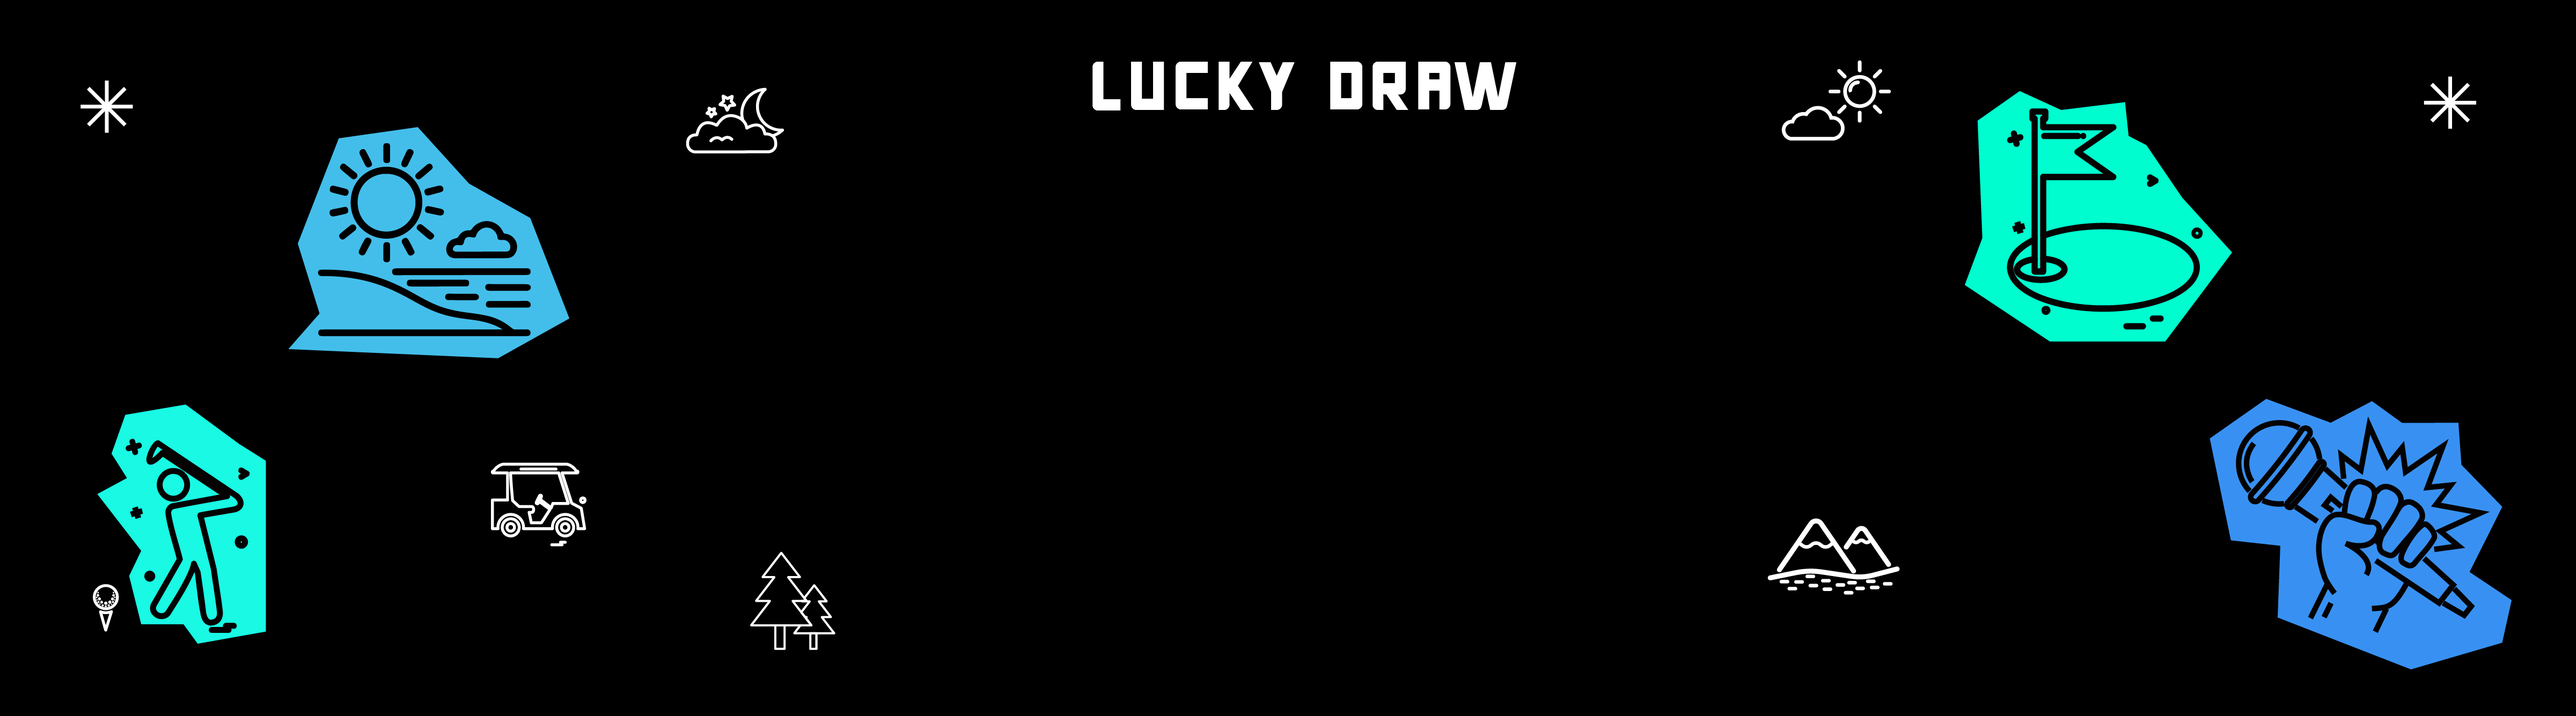
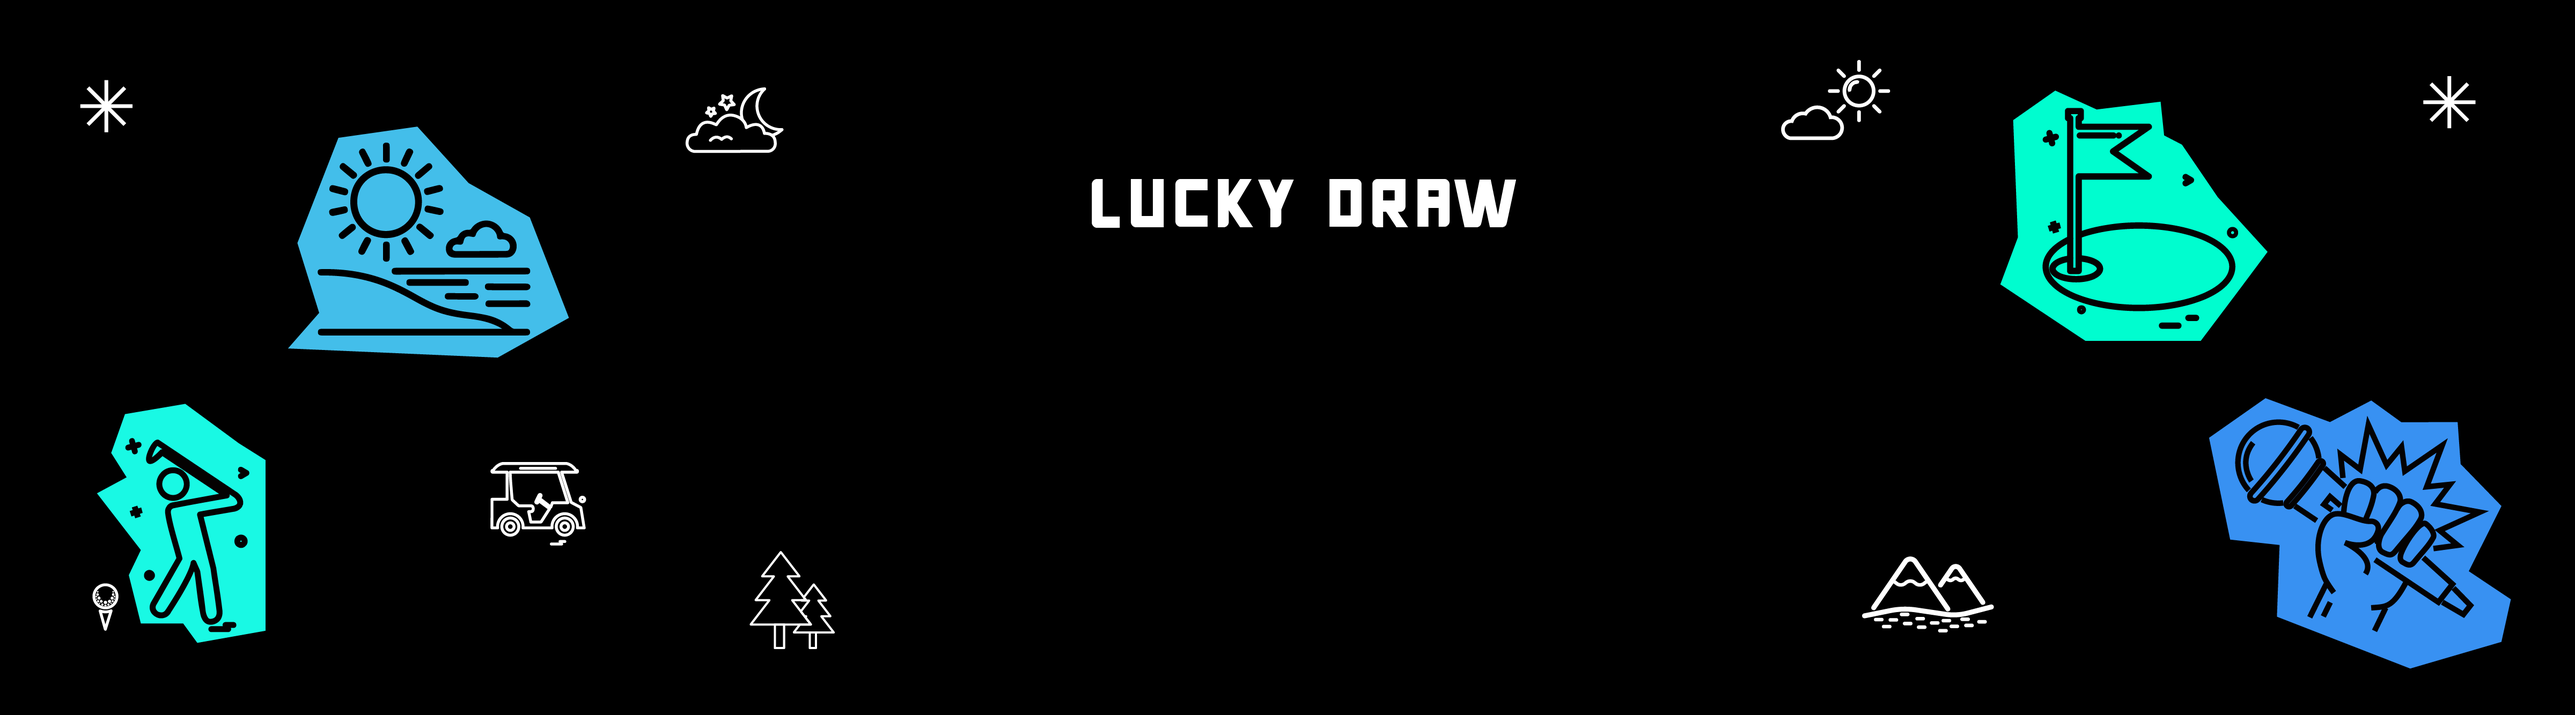
fix: 디자인 수정

diff --git a/upload.html b/upload.html
@@ -374,7 +374,7 @@
       height: 58px;
       border: none;
       border-radius: 18px;
-      background: linear-gradient(135deg, var(--brand), #338bff);
+      background: linear-gradient(135deg, #8ecbff, #6fb8ff);
       color: #ffffff;
       font-size: 16px;
       font-weight: 800;
@@ -385,6 +385,14 @@
 
     .submit-btn:hover {
       transform: translateY(-1px);
+      background: linear-gradient(135deg, #9fd5ff, #7dc2ff);
+    }
+
+    .submit-btn.is-complete {
+      background: linear-gradient(135deg, var(--brand), #338bff);
+    }
+
+    .submit-btn.is-complete:hover {
       background: linear-gradient(135deg, #216ef0, #237fff);
     }
 
@@ -428,6 +436,7 @@
       width: min(100%, 420px);
       padding: 28px 28px 24px;
       border-radius: 28px;
+      text-align: center;
       background:
         linear-gradient(180deg, rgba(255, 255, 255, 0.98) 0%, rgba(247, 250, 255, 0.94) 100%);
       border: 1px solid rgba(255, 255, 255, 0.8);
@@ -443,12 +452,12 @@
     }
 
     .modal-badge {
-      display: inline-flex;
+      display: flex;
       align-items: center;
       justify-content: center;
       width: 56px;
       height: 56px;
-      margin-bottom: 18px;
+      margin: 0 auto 18px;
       border-radius: 20px;
       background: linear-gradient(135deg, rgba(31, 111, 255, 0.16), rgba(14, 165, 233, 0.14));
       color: var(--brand-deep);
@@ -480,7 +489,7 @@
 
     .modal-actions {
       display: flex;
-      justify-content: flex-end;
+      justify-content: center;
       margin-top: 24px;
     }
 
@@ -556,7 +565,7 @@
       <article class="hero-card">
         <h2 class="hero-title">행사 추첨 운영을 위한 참가자 업로드 페이지</h2>
         <p class="hero-copy">
-          본 화면은 럭키드로우 프로젝트에서 사용할 참가자 번호를 엑셀 파일 기준으로 등록하고, <span class="no-break">제외 대상 반영 후</span> 추첨 화면으로 전달하기 위한 사전 준비 페이지입니다.
+          본 페이지는 럭키드로우 프로그램에서 사용할 참가자 번호를 엑셀 파일로 등록하고, <span class="no-break">제외 대상 반영 후</span> 추첨 화면으로 전달하기 위한 사전 준비 페이지입니다.
         </p>
       </article>
     </section>
@@ -588,7 +597,7 @@
 
           <div class="rule-item">
             <strong>5. 첫 번째 시트 및 추가 컬럼</strong>
-            <p>A열 번호 기준으로 업로드하며, 번호 컬럼이 정상적으로 구성되어 있으면 추가 컬럼은 함께 포함되어도 무방합니다. 빈 값이나 숫자가 아닌 데이터는 업로드 과정에서 자동 제외됩니다.</p>
+            <p>A열 번호 기준으로 추첨하며, 번호 컬럼이 정상적으로 구성되어 있으면 추가 컬럼은 함께 포함되어도 무방합니다. 빈 값이나 숫자가 아닌 데이터는 업로드 과정에서 자동 제외됩니다.</p>
           </div>
         </div>
       </article>
@@ -600,7 +609,7 @@
           <div class="sample-card">
             <strong>아래 링크로 예시 파일을 열어볼 수 있습니다.</strong>
             <a class="rule-link" href="files/luckydraw_sample.xlsx" target="_blank" rel="noopener">
-              예시 파일 보기
+              예시 파일 다운로드하기
             </a>
           </div>
 
@@ -632,11 +641,11 @@
             <div class="chip">빈 값 자동 제외</div>
           </div>
 
-          <button class="submit-btn" onclick="uploadExcel()">엑셀 업로드 후 럭키드로우 페이지로 이동</button>
+          <button class="submit-btn" id="submitButton" onclick="uploadExcel()">엑셀 업로드하고 추첨 화면으로 이동</button>
         </div>
 
         <div class="footer-note">
-          업로드가 완료되면 참가자 번호가 브라우저에 저장되고, 바로 추첨 화면으로 넘어갑니다.
+          엑셀 업로드하고 추첨 화면으로 이동 버튼을 누르면 참가자 번호가 저장되고, 바로 추첨 화면으로 이동합니다.
         </div>
       </article>
     </section>
@@ -661,6 +670,7 @@
     const feedbackModalTitle = document.getElementById("feedbackModalTitle");
     const feedbackModalMessage = document.getElementById("feedbackModalMessage");
     const feedbackModalButton = document.getElementById("feedbackModalButton");
+    const submitButton = document.getElementById("submitButton");
     let modalCloseHandler = null;
 
     function updateFileMessage(message) {
@@ -714,28 +724,33 @@
       const file = fileInput.files[0];
       if (!file) {
         updateFileMessage("선택된 파일이 없습니다.");
+        submitButton.classList.remove("is-complete");
         return;
       }
 
       if (!file.name.toLowerCase().endsWith(".xlsx")) {
         fileInput.value = "";
         updateFileMessage(".xlsx 형식만 업로드할 수 있습니다.");
+        submitButton.classList.remove("is-complete");
         return;
       }
 
       updateFileMessage(file.name);
+      submitButton.classList.add("is-complete");
     });
 
     function uploadExcel() {
       const file = fileInput.files[0];
 
       if (!file) {
+        submitButton.classList.remove("is-complete");
         showFeedbackModal("엑셀 파일을 선택해주세요.");
         return;
       }
 
       if (!file.name.toLowerCase().endsWith(".xlsx")) {
         updateFileMessage(".xlsx 형식만 업로드할 수 있습니다.");
+        submitButton.classList.remove("is-complete");
         showFeedbackModal(".xlsx 형식의 엑셀 파일만 업로드할 수 있습니다.");
         return;
       }
@@ -757,6 +772,7 @@
         const json = XLSX.utils.sheet_to_json(sheet);
 
         if (!json.length) {
+          submitButton.classList.remove("is-complete");
           showFeedbackModal("엑셀에 데이터가 없습니다.");
           return;
         }
@@ -768,7 +784,8 @@
         );
 
         if (!numberKey) {
-          showFeedbackModal("번호 컬럼(no, 번호, number, 연번…) 중 하나가 필요합니다.");
+          submitButton.classList.remove("is-complete");
+          showFeedbackModal("엑셀 파일에 번호 컬럼(no, 번호, number, 연번…) 중 하나가 필요합니다.");
           return;
         }
 
@@ -779,11 +796,13 @@
           .filter((value) => !excludeSet.has(value));
 
         if (numbers.length === 0) {
+          submitButton.classList.remove("is-complete");
           showFeedbackModal("제외 처리 후 남은 참가자가 없습니다.");
           return;
         }
 
         localStorage.setItem("luckydraw_numbers", JSON.stringify(numbers));
+        submitButton.classList.add("is-complete");
         showFeedbackModal(numbers.length + "명의 참가자를 저장했습니다!", {
           title: "저장 완료",
           variant: "success",

diff --git a/index.html b/index.html
@@ -17,7 +17,7 @@
       --stage-height: 100vh;
       --stage-pad-y: 0px;
       --stage-pad-x: 0px;
-      --panel-bottom-offset: 376px;
+      --panel-bottom-offset: 272px;
       --digit-width: clamp(96px, 4.7vw, 112px);
       --digit-height: clamp(118px, 20vh, 136px);
       --digit-gap: clamp(12px, 0.8vw, 18px);
@@ -176,7 +176,7 @@
 
     @media (max-width: 640px) {
       .stage {
-        --panel-bottom-offset: 288px;
+        --panel-bottom-offset: 272px;
         --digit-gap: 8px;
       }
 
